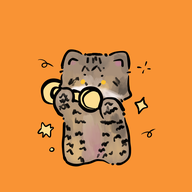
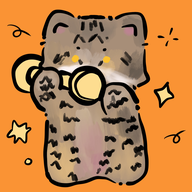
Icône v2 : chat cadré plus grand, version maskable avec marge, cache-busting ?v=2
Claude-Session: https://claude.ai/code/session_01C7U8SsTk9g87Ng9kAXRGYm

diff --git a/index.html b/index.html
@@ -6,10 +6,10 @@
 <meta name="color-scheme" content="light dark">
 <meta name="theme-color" content="#2B52F0">
 <title>Calisthénie</title>
-<link rel="icon" href="favicon.ico" sizes="any">
-<link rel="icon" type="image/png" sizes="32x32" href="icons/favicon-32.png?v=1">
-<link rel="apple-touch-icon" href="icons/apple-touch-icon.png?v=1">
-<link rel="manifest" href="manifest.webmanifest">
+<link rel="icon" href="favicon.ico?v=2" sizes="any">
+<link rel="icon" type="image/png" sizes="32x32" href="icons/favicon-32.png?v=2">
+<link rel="apple-touch-icon" href="icons/apple-touch-icon.png?v=2">
+<link rel="manifest" href="manifest.webmanifest?v=2">
 <meta name="apple-mobile-web-app-title" content="Calisthénie">
 <style>
 :root{padding-top:env(safe-area-inset-top,0px);padding-bottom:env(safe-area-inset-bottom,0px)}
